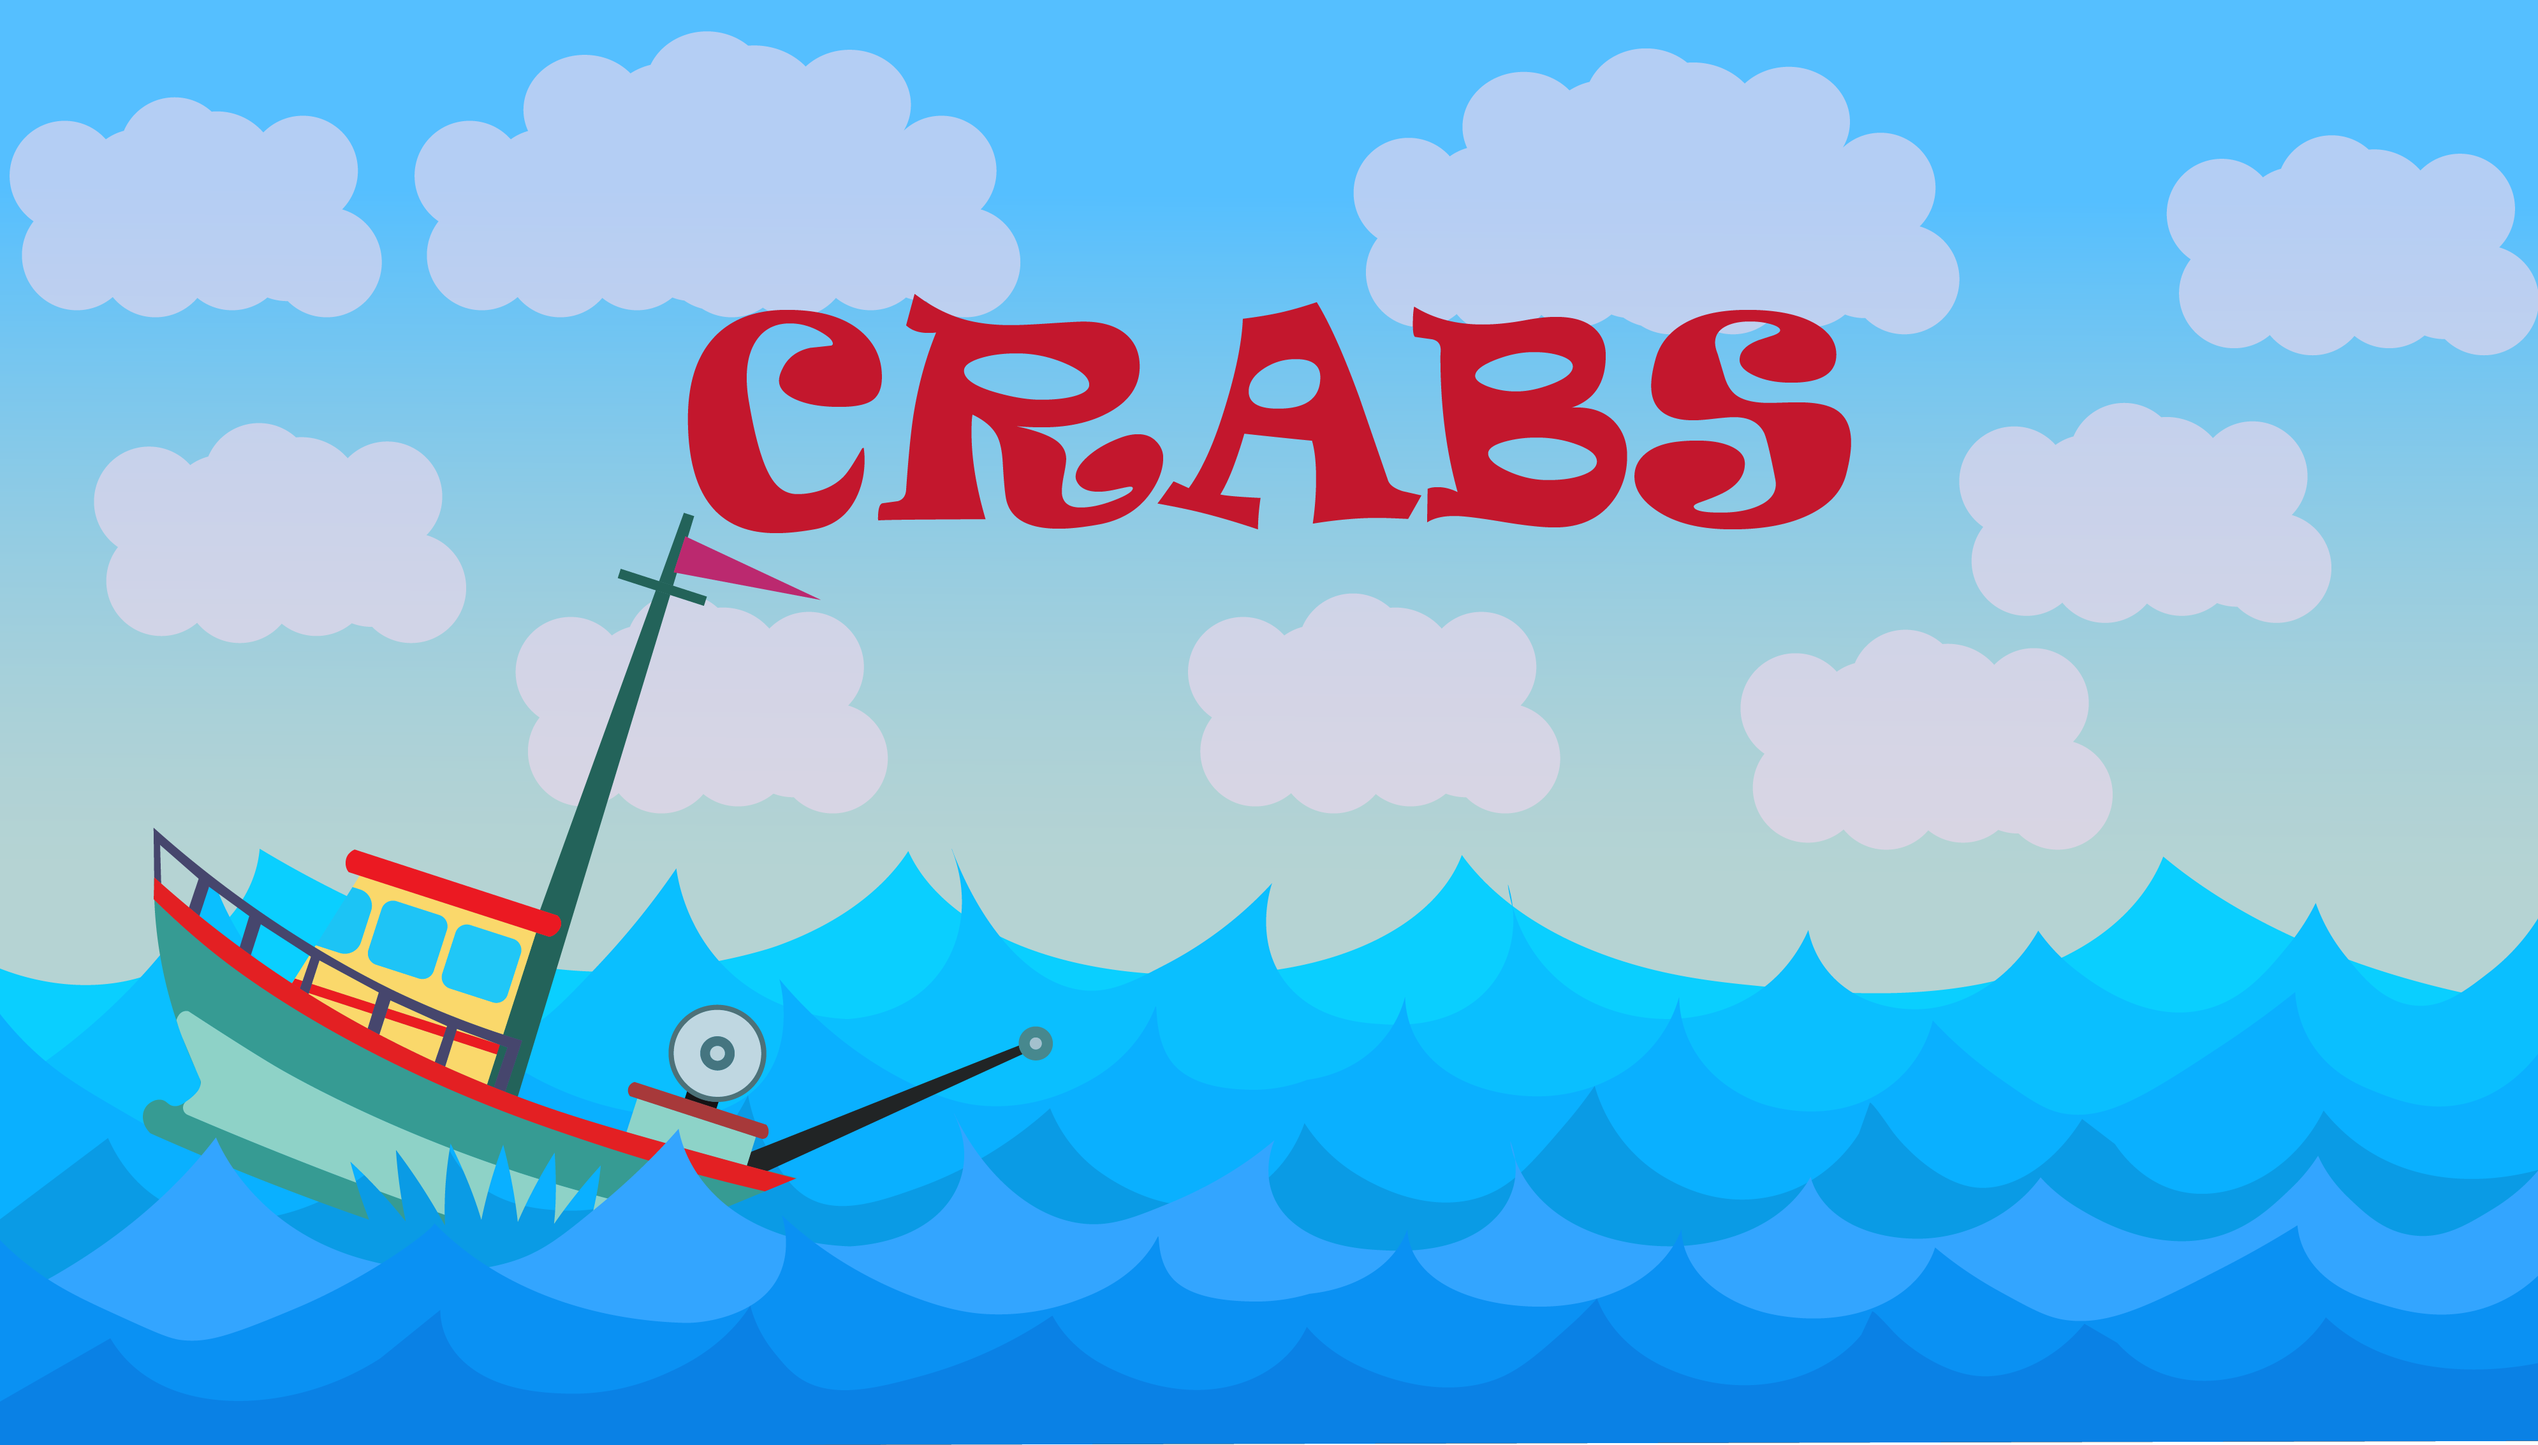
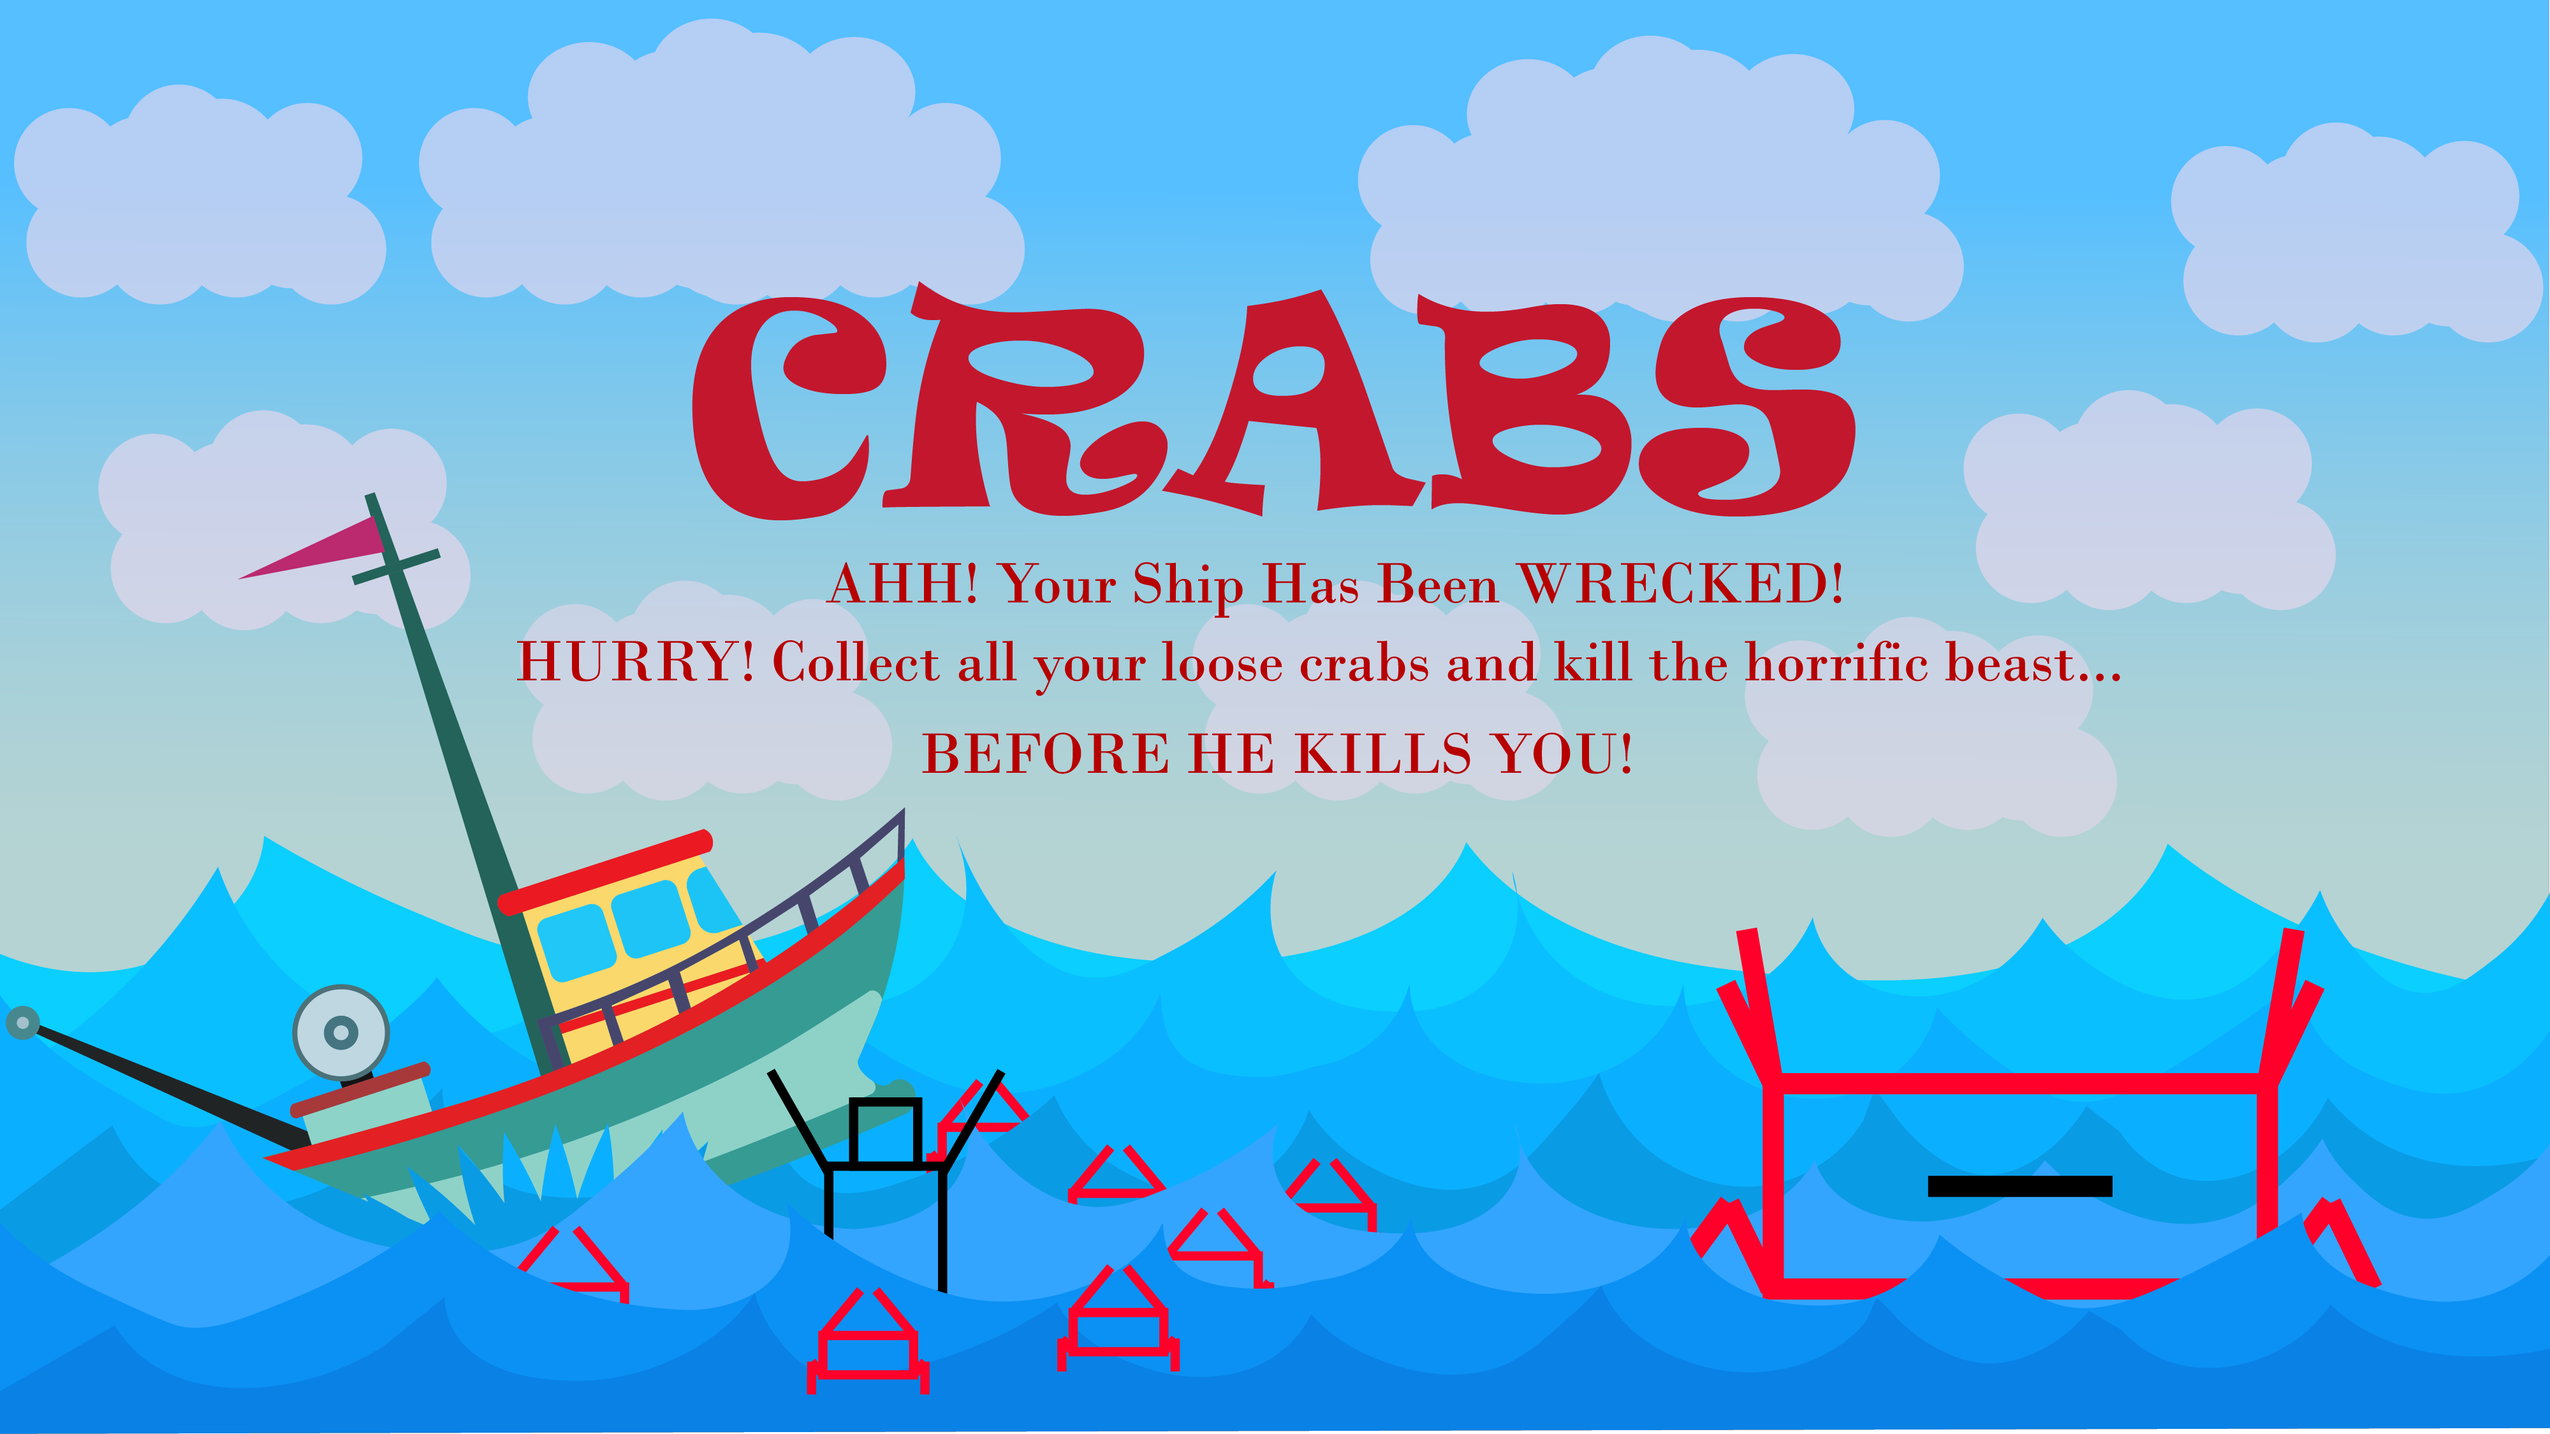
created new end screen and start screen, edited a few things

diff --git a/drawStartScreen.m b/drawStartScreen.m
@@ -10,12 +10,12 @@ imshow(imageName);
 
 % IMG size of START-SCREEN.png: 3980 x 2266
 % locations for text handles
-crabTextLoc = [1240, 1600];
-levelLoc = [1140, 1780];
+%crabTextLoc = [1240, 1600];
+levelLoc = [1440, 2500];
 
 % presents all the text onto the start screen
-crabText = text(crabTextLoc(1), crabTextLoc(2),'Your Ships Been Wrecked By The Crab Beast!', 'FontSize', 30, 'Color', 'red');
-levelExp = text(levelLoc(1), levelLoc(2),'Quick, Enter Your Level 1 Though 9 And Collect All Your Crabs Before Youre Nipped!', 'FontSize', 25, 'Color', 'red');
+%crabText = text(crabTextLoc(1), crabTextLoc(2),'Your Ships Been Wrecked By The Crab Beast!', 'FontSize', 30, 'Color', 'red');
+levelExp = text(levelLoc(1), levelLoc(2),'Enter Your Level, 1 Though 9!', 'FontSize', 25, 'Color', 'red');
 
 
 

diff --git a/crabs.m b/crabs.m
@@ -114,6 +114,9 @@ crabHealth = 100;
 %while the user doesn't quit and while the Captain has lives left
 ##while ( cmd != "Q" && j < length(healthGraphics) && you_win == false);
 
+  % gives the user an explanation what to do
+  objectiveTextLoc = [1440, 2500];
+  objectiveText = text(objectiveTextLoc(1), objectiveTextLoc(2),'Capture All The Crabs To Unlock Weapon Parts And Kill The Beast!', 'FontSize', 20, 'Color', 'red');
 
   % initiates the health of the big crab
     crabHealthLoc = [100,100];
@@ -567,7 +570,7 @@ endwhile
 
 %death screen
 
-restart = drawEndScreen("START-SCREEN.png", numCrabs, crabsCaught);
+restart = drawEndScreen("END-SCREEN.png", numCrabs, crabsCaught);
 
 endwhile
 

diff --git a/drawMap.m b/drawMap.m
@@ -17,7 +17,8 @@ img = imread(imageName);
 imshow(imageName);
 
 %put a title on the figure
-title("Crabs");
+title("Controls: W = Forward || S = Backward || A = Left Turn || D = Right Turn || E = Action Button");
+
 
 %keep the background and plot on top of it
 hold on;
